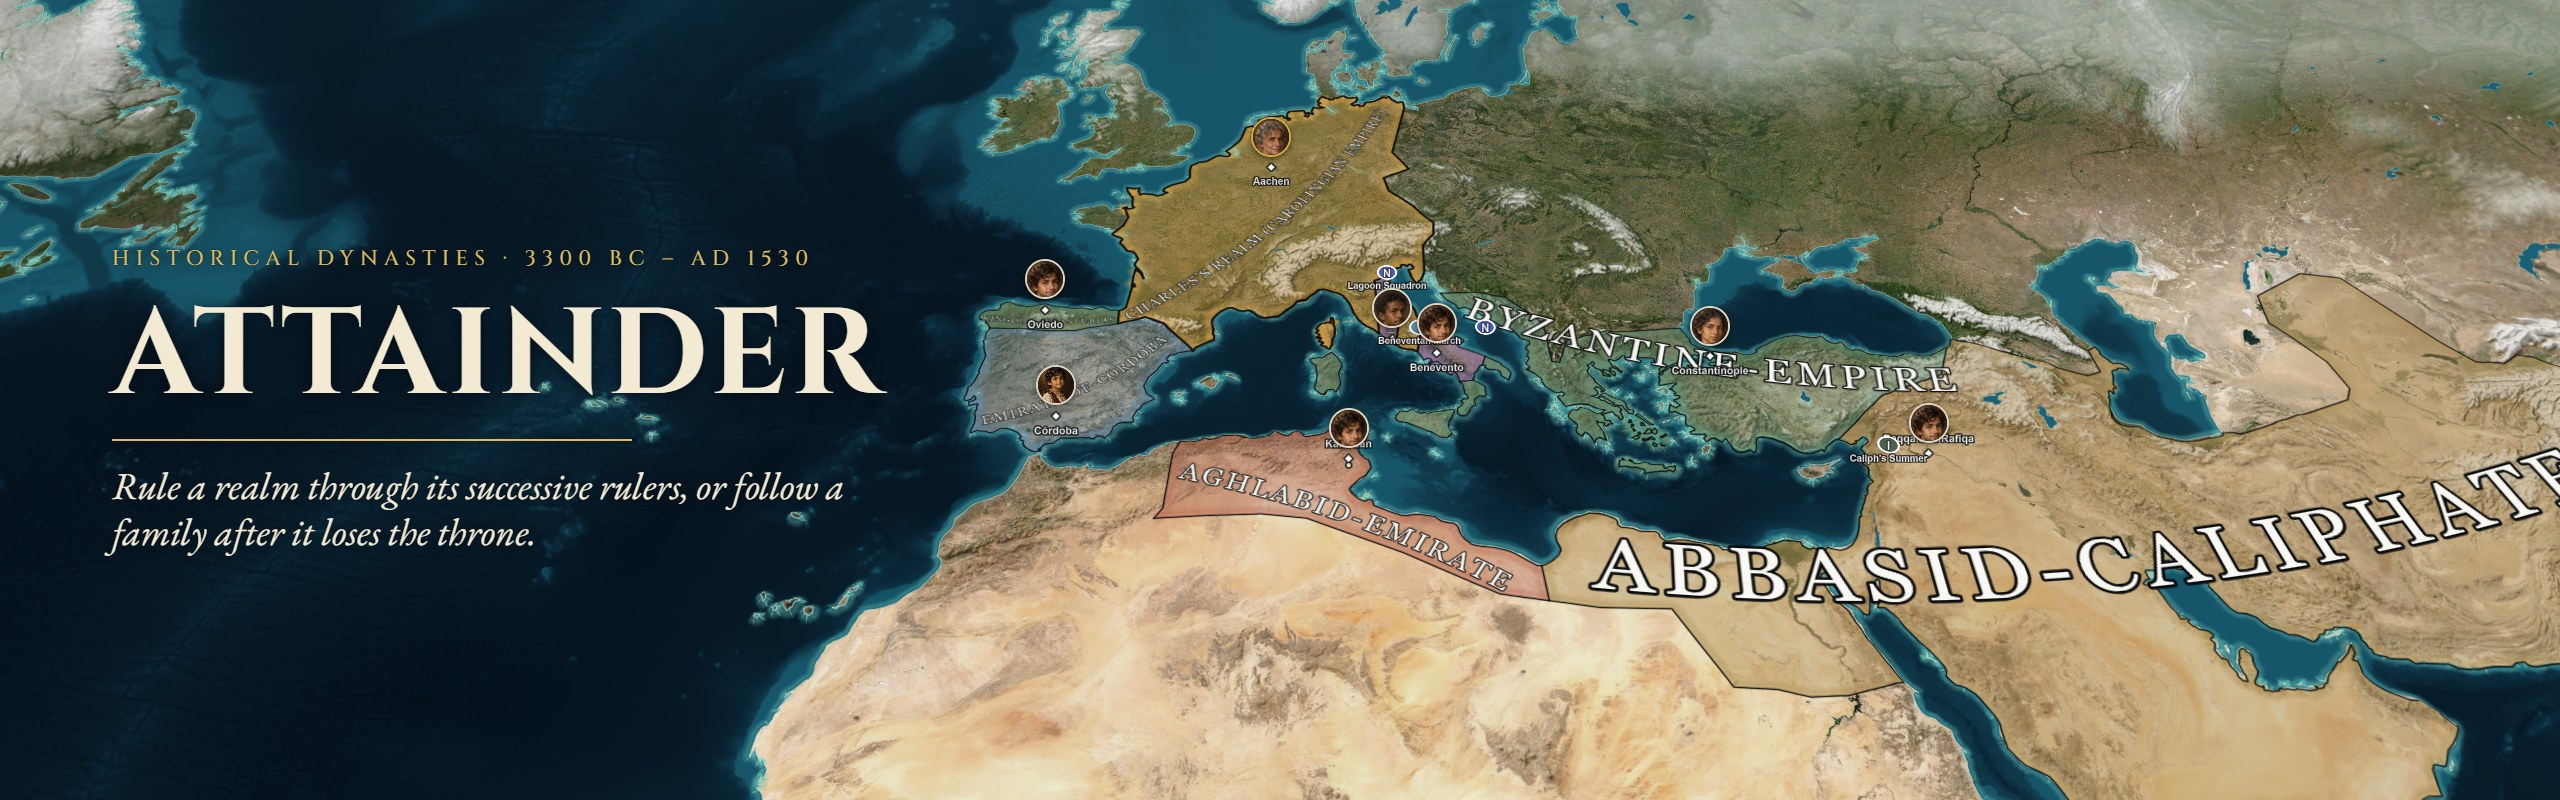
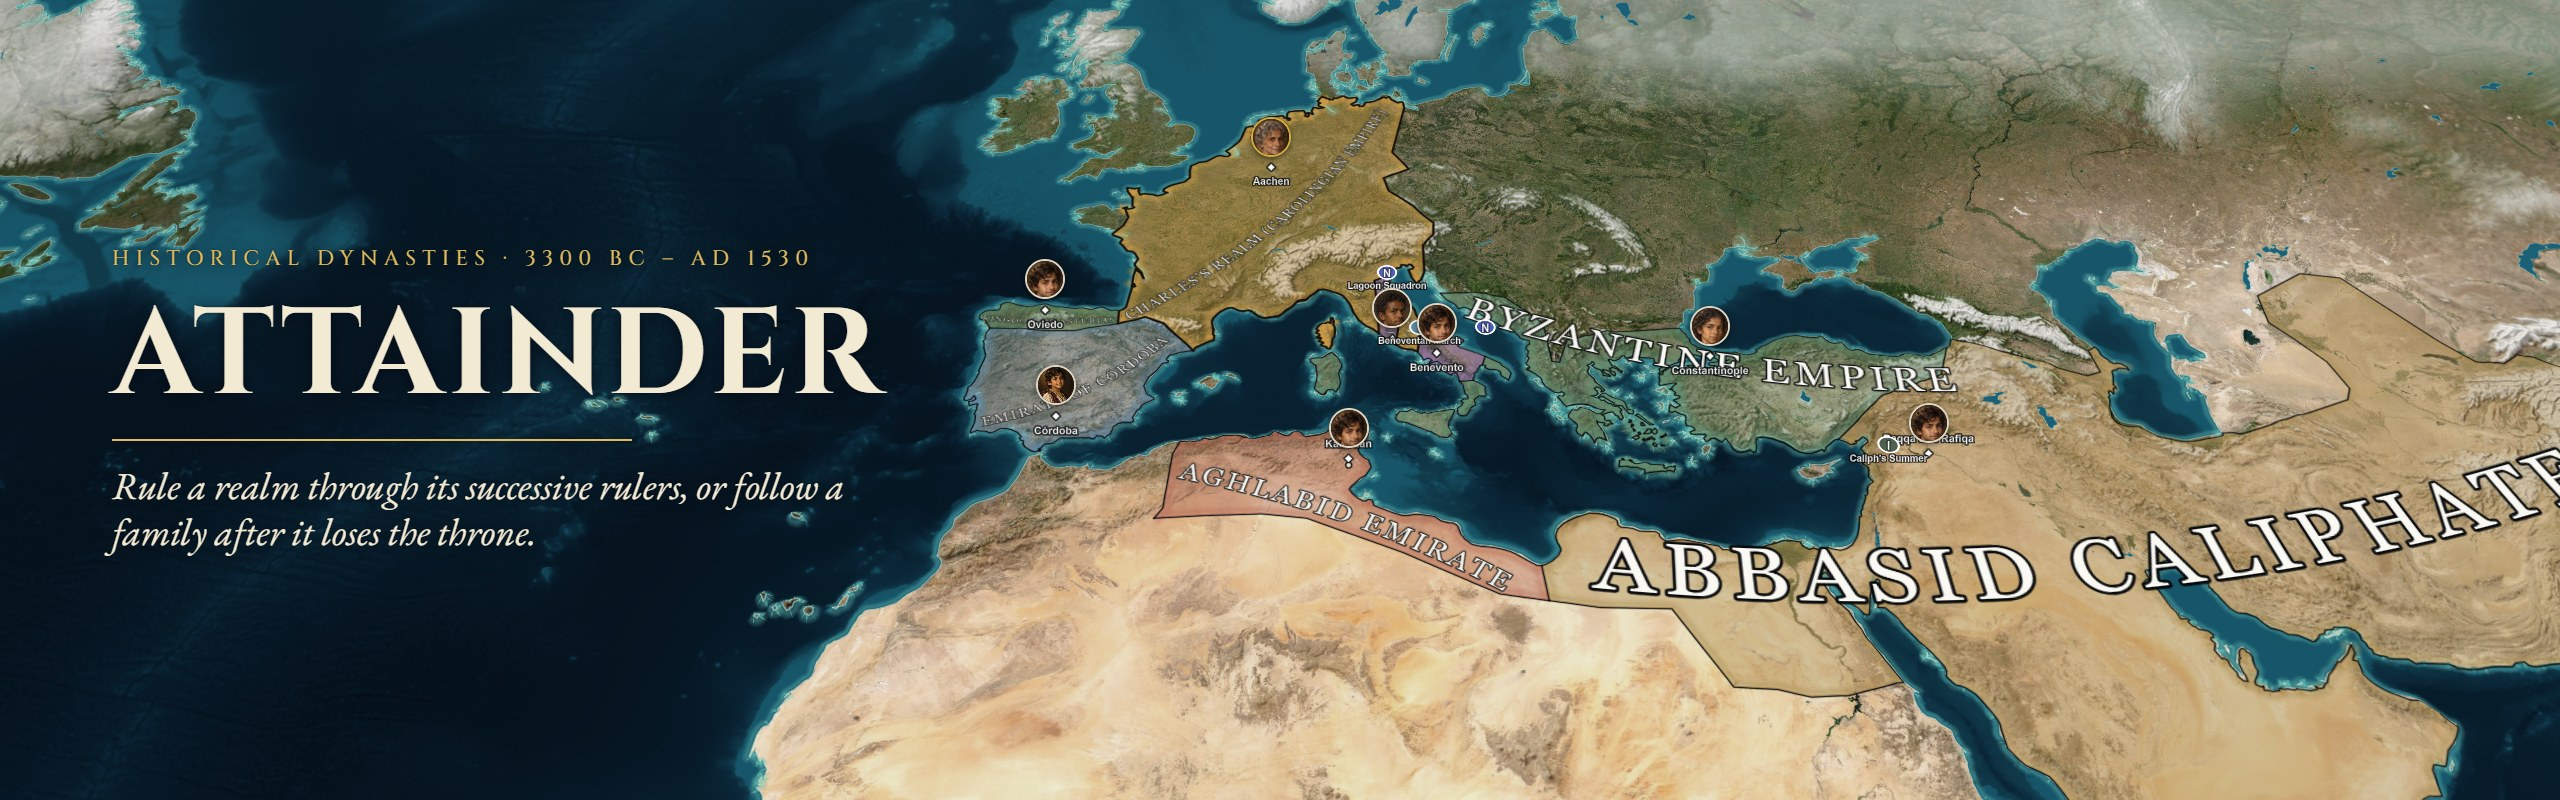
fix(world): a historical polity keeps its name when an event updates it (#244)
An authored historical package keys a polity by a stable id and names
it apart. The code that applies an event's polityChanges wrote the key
back as the name on every update, as upstream does where a country is
its name. In the Charlemagne test campaign five of ten realms were
labelled by their ids after five model-written years: on the map
("ABBASID-CALIPHATE"), in the chips under an event and in the lists.

An update now leaves a historical polity's name as it is. A campaign
whose labels were already overwritten reads the scenario's names again
on read, in normalizeWorldState and in the map's store, which reads the
raw world. Nothing changes outside a historical package.

The README's banner and screenshot are taken again with the realms'
names.

Spec: docs/superpowers/specs/2026-11-19-historical-polity-names-design.md

diff --git a/src/runtime/gameState.historicalPolityName.test.js b/src/runtime/gameState.historicalPolityName.test.js
@@ -1,0 +1,85 @@
+// A historical polity keeps its name when an event updates it.
+// Spec: docs/superpowers/specs/2026-11-19-historical-polity-names-design.md.
+//
+// An authored historical package keys a polity by a stable id (`byzantine-empire`) and names it apart
+// (`Bysantinska riket`). Upstream, a country IS its name, and an update wrote the key back as the name: after
+// five model-written years five of ten realms were labelled by their ids, on the map and in every list.
+import test from "node:test";
+import assert from "node:assert/strict";
+import { applyEventImpactsToWorld, normalizeWorldState } from "./gameState.js";
+
+const POLITIES = [
+  { id: "byzantine-empire", nameSv: "Bysantinska riket" },
+  { id: "abbasid-caliphate", nameSv: "Abbasidiska kalifatet" },
+  { id: "silla", nameSv: "Silla" },
+];
+const override = (code, name) => ({ aliases: [], code, color: "", name, note: "" });
+const historicalWorld = (names = {}) => ({
+  historicalScenario: { kind: "historical", polities: POLITIES },
+  polityOverrides: Object.fromEntries(POLITIES.map(({ id, nameSv }) => [id, override(id, names[id] ?? nameSv)])),
+  regionOwnershipOverrides: { "region-1": "byzantine-empire", "region-2": "abbasid-caliphate" },
+});
+const event = (impacts) => ({ date: "0803-07-19", title: "Test", description: "test", impacts });
+const update = (code, fields = {}) => ({ operation: "update", code, name: "", aliases: [], color: "", note: "", ...fields });
+const names = (world) => Object.fromEntries(Object.entries(world.polityOverrides).map(([key, polity]) => [key, polity.name]));
+
+test("an update that names the polity by its id keeps the polity's name", () => {
+  const { world } = applyEventImpactsToWorld({
+    world: historicalWorld(),
+    events: [event({ polityChanges: [update("byzantine-empire", { note: "Nikephoros survives the revolt." })] })],
+  });
+  assert.deepEqual(names(world), { "byzantine-empire": "Bysantinska riket", "abbasid-caliphate": "Abbasidiska kalifatet", silla: "Silla" });
+  assert.equal(world.polityOverrides["byzantine-empire"].note, "Nikephoros survives the revolt.", "the update itself is applied");
+});
+
+test("an update that names the polity by its name keeps the key and the name", () => {
+  const { world } = applyEventImpactsToWorld({
+    world: historicalWorld(),
+    events: [event({ polityChanges: [update("Abbasidiska kalifatet", { note: "The Barmakids fall." })] })],
+  });
+  assert.deepEqual(names(world), { "byzantine-empire": "Bysantinska riket", "abbasid-caliphate": "Abbasidiska kalifatet", silla: "Silla" });
+  assert.equal(world.regionOwnershipOverrides["region-2"], "abbasid-caliphate");
+});
+
+test("a name the polity was given apart from the scenario's is kept too", () => {
+  const { world } = applyEventImpactsToWorld({
+    world: historicalWorld({ silla: "Unified Silla" }),
+    events: [event({ polityChanges: [update("silla", { note: "A quiet year." })] })],
+  });
+  assert.equal(world.polityOverrides.silla.name, "Unified Silla");
+});
+
+test("a save whose labels were overwritten by the ids reads the scenario's names again", () => {
+  const world = normalizeWorldState(historicalWorld({ "byzantine-empire": "byzantine-empire", "abbasid-caliphate": "abbasid-caliphate" }));
+  assert.deepEqual(names(world), { "byzantine-empire": "Bysantinska riket", "abbasid-caliphate": "Abbasidiska kalifatet", silla: "Silla" });
+  // Only the overwritten label is repaired: another name stands.
+  assert.equal(normalizeWorldState(historicalWorld({ silla: "Unified Silla" })).polityOverrides.silla.name, "Unified Silla");
+});
+
+test("outside a historical package a country is still its name", () => {
+  const { world } = applyEventImpactsToWorld({
+    world: { polityOverrides: { Germany: override("Germany", "Germany") }, regionOwnershipOverrides: { "DEU.1_1": "Germany" } },
+    events: [event({ polityChanges: [update("Germany", { note: "A quiet year." })] })],
+  });
+  assert.equal(world.polityOverrides.Germany.name, "Germany");
+  const stock = normalizeWorldState({ polityOverrides: { "byzantine-empire": override("byzantine-empire", "byzantine-empire") } });
+  assert.equal(stock.polityOverrides["byzantine-empire"].name, "byzantine-empire", "no scenario, no repair");
+});
+
+test("the map's store makes the same repair, and leaves an unharmed world as the object it was", async () => {
+  const { withHistoricalPolityNames } = await import("./historicalPolityNames.js");
+  const fs = await import("node:fs");
+  const harmed = historicalWorld({ "byzantine-empire": "byzantine-empire" });
+  const repaired = withHistoricalPolityNames(harmed.polityOverrides, harmed);
+  assert.equal(repaired["byzantine-empire"].name, "Bysantinska riket");
+  assert.equal(repaired.silla, harmed.polityOverrides.silla, "an entry that needs nothing is the same object");
+  assert.equal(harmed.polityOverrides["byzantine-empire"].name, "byzantine-empire", "the raw world is not written to");
+  const sound = historicalWorld();
+  assert.equal(withHistoricalPolityNames(sound.polityOverrides, sound), sound.polityOverrides, "the store compares references");
+  const stock = { polityOverrides: { Germany: override("Germany", "Germany") } };
+  assert.equal(withHistoricalPolityNames(stock.polityOverrides, stock), stock.polityOverrides);
+  assert.equal(withHistoricalPolityNames(undefined, sound), undefined);
+  // The store reads the raw world (useWorldState.js), not normalizeWorldState.
+  const store = fs.readFileSync(new URL("../Game/Map/useWorldState.js", import.meta.url), "utf8");
+  assert.match(store, /polityOverrides: withHistoricalPolityNames\(state\?\.polityOverrides \?\? EMPTY_OBJECT, state\),/);
+});

diff --git a/src/runtime/historicalPolityNames.js b/src/runtime/historicalPolityNames.js
@@ -1,0 +1,42 @@
+// A historical polity's name apart from its key.
+// Spec: docs/superpowers/specs/2026-11-19-historical-polity-names-design.md.
+//
+// An authored historical package keys a polity by a stable id (`byzantine-empire`) and names it apart
+// (historicalScenario.polities[].nameSv, copied into polityOverrides[id].name). Everywhere else a country IS its
+// name, and the key of polityOverrides doubles as the label. No imports: the map's store reads the raw world and
+// uses this module without the game state's.
+
+const text = (value) => (typeof value === "string" ? value.trim() : "");
+const isHistorical = (world) => world?.historicalScenario?.kind === "historical";
+
+// The name the scenario gives the polity with this id, or "".
+export const historicalPolityName = (world, id) => {
+  if (!isHistorical(world)) return "";
+  const key = text(id);
+  const polities = Array.isArray(world.historicalScenario.polities) ? world.historicalScenario.polities : [];
+  return text(polities.find((entry) => text(entry?.id) === key)?.nameSv);
+};
+
+// The label an updated polity carries. Outside a historical package it is the key. Inside one it is the name the
+// polity already has, or the scenario's when the label is missing or is the id.
+export const updatedPolityName = (world, code, currentName) => {
+  if (!isHistorical(world)) return code;
+  const kept = text(currentName);
+  return (kept && kept !== code ? kept : historicalPolityName(world, code)) || code;
+};
+
+// Repair on read: until 19 November 2026 every update of a historical polity wrote its id over its name. A label
+// that is the id reads the scenario's name again; any other name stands. Returns the same object when nothing
+// was overwritten, so a reader that compares references sees no change.
+export const withHistoricalPolityNames = (polityOverrides, world) => {
+  if (!isHistorical(world) || !polityOverrides || typeof polityOverrides !== "object") return polityOverrides;
+  let repaired = null;
+  for (const [key, value] of Object.entries(polityOverrides)) {
+    if (!value || typeof value !== "object" || text(value.name) !== key) continue;
+    const name = historicalPolityName(world, key);
+    if (!name || name === key) continue;
+    repaired ??= { ...polityOverrides };
+    repaired[key] = { ...value, name };
+  }
+  return repaired ?? polityOverrides;
+};

diff --git a/src/runtime/gameState.js b/src/runtime/gameState.js
@@ -11,6 +11,7 @@ import { normalizeEventTags } from "./eventTags.js";
 import { normalizeEventPlaces } from "./eventPlaces.js";
 import { buildOwnerAliasMap, createOwnerResolver, isRealCountryName, toCountryName } from "./ownerNames.js";
 import { foundPolityIfUnknown } from "./polityFounding.js";
+import { updatedPolityName, withHistoricalPolityNames } from "./historicalPolityNames.js";
 import { normalizeTerritoryBasis, screenTerritoryBasis } from "./territoryBasis.js";
 import { normalizeApplicationReceipt } from "./applicationReceipt.js";
 import { applyReportOps, normalizeReportOp, normalizeReports } from "./reports.js";
@@ -3520,11 +3521,13 @@ const withFormerSceneKeyMoved = (world) => {
 
 export const normalizeWorldState = (world) => {
   const nextWorld = withFormerSceneKeyMoved(world && typeof world === "object" ? world : {});
-  const polityOverrides = Object.fromEntries(
+  // Repair on read: until 19 November 2026 every update of a historical polity wrote its id over
+  // its name (docs/superpowers/specs/2026-11-19-historical-polity-names-design.md).
+  const polityOverrides = withHistoricalPolityNames(Object.fromEntries(
     Object.entries(nextWorld.polityOverrides ?? {})
       .map(([key, value]) => [key, normalizePolityOverride(key, value)])
       .filter(([, value]) => value),
-  );
+  ), nextWorld);
 
   // Canonicalise on READ too, so a save written before this migrated — or one
   // whose owners were split across a polity's token and its era display name by
@@ -4442,7 +4445,7 @@ const applyPolityAndTerritoryImpacts = ({
       aliases: [],
       code,
       color: "",
-      name: code,
+      name: updatedPolityName(world, code, ""),
       note: "",
     };
     const aliases = [...new Set([
@@ -4453,7 +4456,8 @@ const applyPolityAndTerritoryImpacts = ({
       ...current,
       ...(aliases.length > 0 || change.aliases?.length > 0 ? { aliases } : {}),
       ...(change.color ? { color: change.color } : {}),
-      name: code,
+      // A historical polity keeps its name; anywhere else the key is the name.
+      name: updatedPolityName(world, code, current.name),
       ...(change.note ? { note: change.note } : {}),
     };
 

diff --git a/src/Game/Map/useWorldState.js b/src/Game/Map/useWorldState.js
@@ -2,6 +2,7 @@ import { useEffect, useState } from "react";
 import { JSON_URLS, readJson, reportPerfOperation } from "../../runtime/assets.js";
 import { recordMapTrace, recordMapWork } from "../../runtime/mapPerfTrace.js";
 import { buildOwnerAliasMap, createOwnerResolver } from "../../runtime/ownerNames.js";
+import { withHistoricalPolityNames } from "../../runtime/historicalPolityNames.js";
 import { mapViewOf } from "../../../server/mapProjection.js";
 import { normalizeGroupAreas, normalizeGroups } from "../../runtime/groups.js";
 
@@ -158,7 +159,9 @@ const deriveMapState = (state) => ({
       regionClaimants: withSettledClaims(folded.claimants, state?.settledRegionClaims),
     };
   })(),
-  polityOverrides: state?.polityOverrides ?? EMPTY_OBJECT,
+  // The map's store reads the raw world, so the repair normalizeWorldState makes is made here too: a
+  // historical polity whose label was overwritten by its id is drawn under the scenario's name.
+  polityOverrides: withHistoricalPolityNames(state?.polityOverrides ?? EMPTY_OBJECT, state),
   // Groups and the regions they control (runtime/groups.js), read through the
   // same normalizer the game uses; a world without groups costs nothing.
   ...(() => {

diff --git a/docs/superpowers/specs/2026-11-19-historical-polity-names-design.md b/docs/superpowers/specs/2026-11-19-historical-polity-names-design.md
@@ -1,0 +1,32 @@
+# A historical polity keeps its name: design
+
+## Why
+
+The walk through English mode on 18 November 2026 found place chips titled `Show byzantine-empire on the map`. The cause is older than the chips and is not a matter of language.
+
+An authored historical package keys a polity by a stable id (`byzantine-empire`) and names it apart (`historicalScenario.polities[].nameSv`, copied into `polityOverrides[id].name`). Upstream, a country is its name: the key of `polityOverrides` doubles as the label. The code that applies an event's `polityChanges` wrote `name: code` on every update (`applyPolityAndTerritoryImpacts` in `src/runtime/gameState.js`). In a historical campaign every update of a realm therefore replaced its name with its id.
+
+Measured on the Charlemagne test campaign: at 25 December AD 802 two of ten realms were labelled by their ids; after five model-written years, at 25 December AD 806, five were (`aghlabid-emirate`, `emirate-of-cordoba`, `abbasid-caliphate`, `tang-empire`, `byzantine-empire`). Each had been updated by an event; the five that kept their names had not. The id shows wherever the realm is named: the map's own label (`ABBASID-CALIPHATE`), the chips under an event, the lists.
+
+## Goals
+
+- An update of a historical polity leaves its name as it is.
+- A campaign whose labels were already overwritten reads the scenario's names again, without a migration step.
+- Nothing changes outside a historical package.
+
+## Non-goals
+
+- A rename by the model (`polityChanges[].name`) still re-keys the polity, as upstream does. In a historical campaign that turns an id into a name as the key; it has not been seen in the measured years and is left.
+- Events already saved keep what the model wrote in them (`places: [{ kind: "country", name: "byzantine-empire" }]`). Their chips read the realm's name through the repaired label.
+
+## Rulings
+
+1. **On update, a historical polity carries the name it has.** If that name is missing or is the id, it carries the scenario's name for the id. Outside a historical package the label is the key, as before. Cost if wrong: one function (`updatedPolityName`).
+2. **The repair is made on read, in both readers.** `normalizeWorldState` gives a polity the scenario's name when its label equals its key and the scenario names that id otherwise. The map's store reads the raw world without that normalizer (`src/Game/Map/useWorldState.js`), so it makes the same repair; the first browser run after the fix showed the chips under the events corrected and the map's own labels still hyphenated. The rule lives once, in `src/runtime/historicalPolityNames.js`, and returns the object it was given when nothing was overwritten, because the store compares references. A label that is anything else stands: a scenario edited as a copy, or a later rename. The repaired world is what the next write stores, so a save heals when it is next written. Cost if wrong: a polity an author named exactly by its id gets the scenario's name; no package does that.
+3. **The scenario's name is the Swedish source name.** It is read in English through the book like every other name of the package.
+
+## Checks
+
+- `src/runtime/gameState.historicalPolityName.test.js`: an update by id, an update by name, a name given apart from the scenario's, the repair on read, a world without a historical package, and the map store's repair.
+- The full suite and the build.
+- Browser, the Charlemagne test campaign at AD 806 in English: the map's labels and the chips under the events name the five realms. The README's banner and screenshot are taken again from that run.
